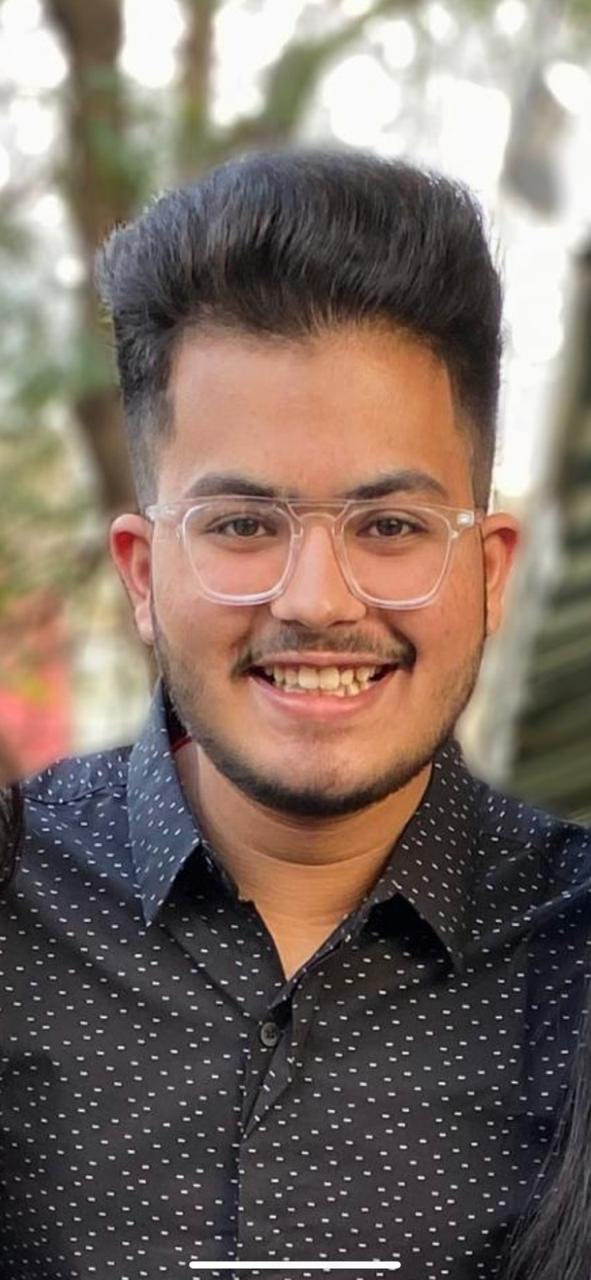
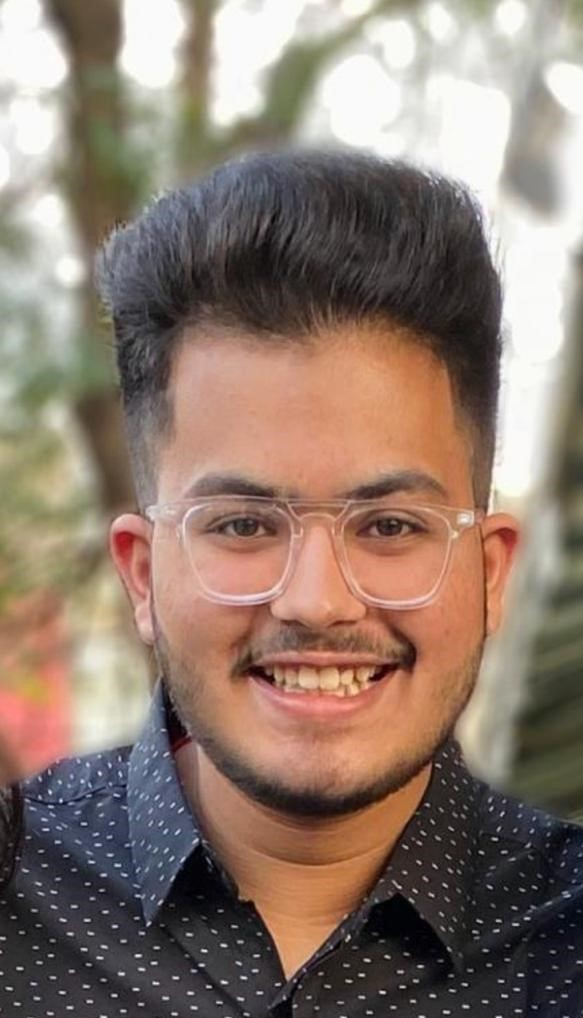
some more changes

diff --git a/src/bottomContainer/footerTemp.js b/src/bottomContainer/footerTemp.js
@@ -34,14 +34,14 @@ const footer = () => {
             <h6>Quick Links</h6>
             <ul className="footer-links">
               <li>
-                <a href="http://scanfcode.com/about/">About Us</a>
+                <a href="#definition">About Us</a>
               </li>
               <li>
-                <a href="http://scanfcode.com/contact/">Contribute Us</a>
+                <a href="https://www.instagram.com/missionqabil/" target="_blank">Instagram</a>
               </li>
               <li>
-                <a href="http://scanfcode.com/contribute-at-scanfcode/">
-                  Join Us
+                <a href="https://www.linkedin.com/company/mission-qabil/" target="_blank">
+                  LinkedIn
                 </a>
               </li>
             </ul>
@@ -50,7 +50,7 @@ const footer = () => {
       <hr />
       <div className="container">
         <div className="row">
-          <div className="col-md-4 col-sm-12">
+          <div className="col-md-7 col-sm-12">
             <ul className="social-icons">
               <li>
                 <a className="facebook" href="https://www.instagram.com/missionqabil/" target="_blank">

diff --git a/src/teamPage/teamLead.css b/src/teamPage/teamLead.css
@@ -21,6 +21,7 @@
     border: 4px solid #f3a94e;
     width:200px;
     height: 200px;
+    object-fit: cover;
 }
 
 .name{
